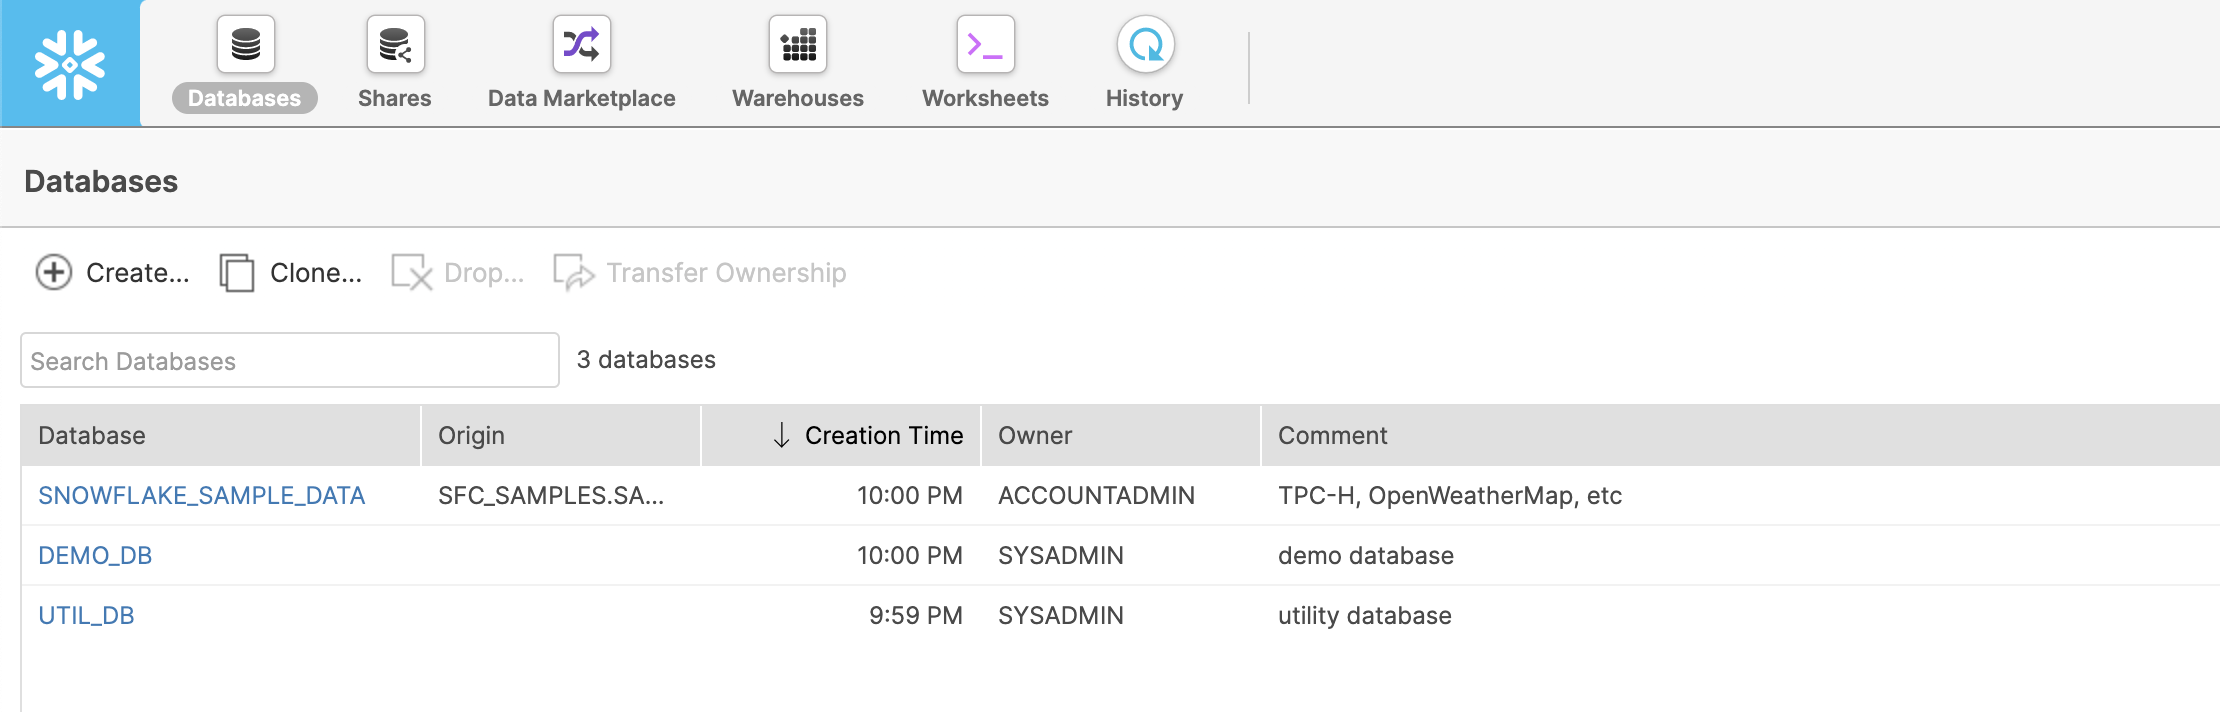
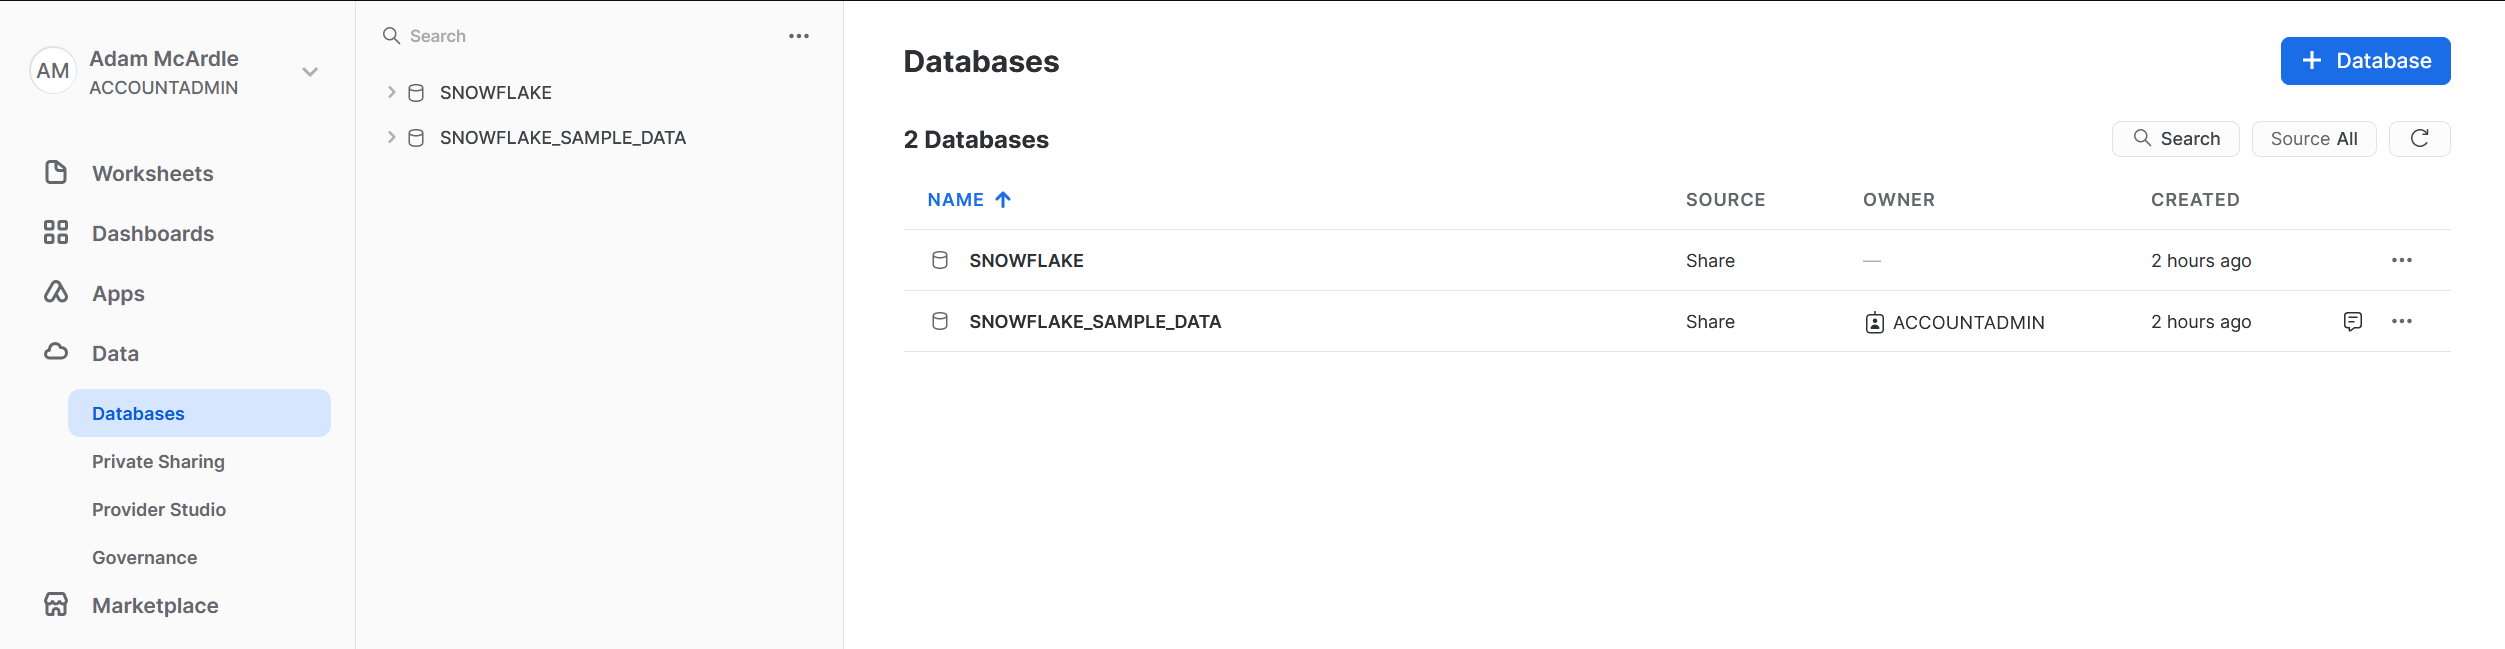
02 UI Tour changes

diff --git a/sessions/Snowflake-100/101/02-tour-of-the-ui/README.md b/sessions/Snowflake-100/101/02-tour-of-the-ui/README.md
@@ -3,54 +3,60 @@
 
 ## The main menu
 
-The top menu allows you to switch between the different areas of Snowflake.
+The menu on the left allows you to switch between the different areas of Snowflake.
 
 ![Snowflake main menu](./assets/snowflake_menu.png "Snowflake main menu")
 
 Areas:
-* Databases
-* Shares
-* Data Marketplace
-* Warehouses
 * Worksheets
-* History
-* Account
-
-## Databases
-
-Shows information about the databases you have created or have privileges to access. You can create, clone, drop, or transfer ownership of databases as well as load data (limited) in the UI.
-
-![Snowflake databases](./assets/snowflake_databases.png "Snowflake databases")
-
-
-## Shares
-
-Allows data sharing to be configured to easily and securely share Snowflake table(s) among separate Snowflake accounts or external users.
-
-## Data Marketplace
-
-Allows you to import pre-made data sets curated by external companies.
-
-## Warehouse
-
-This is where you set up and manage compute resources (virtual warehouses) to load or query data in Snowflake.
-
-![Snowflake warehouses](./assets/snowflake_warehouses.png "Snowflake warehouses")
+* Dashboards
+* Apps
+* Data
+* Marketplace
+* Activity
+* Admin
+* Help & Support
 
 ## Worksheets
 
 Provides an interface for submitting SQL queries, performing DDL and DML operations and viewing results as your queries/operations complete.
 
-Each worksheet has it's own "context" which defines which role, warehouse, database, and schema your queries will be run inside. This allows you to have multiple worksheets simultaneously with different config. This differs from the account context (top right) which determines which items appear in the top menu and what function you are allowed to run in the UI outside of the worksheet context.
+Each worksheet has it's own "context" which defines which role, warehouse, database, and schema your queries will be run inside. This allows you to have multiple worksheets simultaneously with different config. This differs from the account context (top left) which determines which items appear in the menu and what function you are allowed to run in the UI outside of the worksheet context.
 
 ![Snowflake worksheets](./assets/snowflake_worksheet.png "Snowflake worksheets")
 
 Worksheets are saved automatically each time you change the content and will be persisted in your account until you explicily remove them.
 
-## History
+## Dashboards
+Visualise your data with basic charts and graphs from mulitple queries in a dashboard.
+
+## Apps
+Install third party apps to add extra functionality to your Snowflake account. At the time of writing this is a preview feature, available only on AWS-backed Snowflake accounts.
+
+## Data
+
+Shows information about the databases you have created or have privileges to access. You can create, clone, drop, or transfer ownership of databases as well as load data (limited) in the UI.
+
+![Snowflake databases](./assets/snowflake_databases.png "Snowflake databases")
+
+## Marketplace
+
+Allows you to import pre-made data sets curated by external companies.
+
+## Activity
 
 Allows you to view the details of all queries executed in the last 14 days in the Snowflake account.
 
-## Account
+## Shares
 
-The account area allows you to manage/monitor billing and resource usage as well as create users and roles. This is only visible when you are using the `ACCOUNTADMIN` role.
+Allows data sharing to be configured to easily and securely share Snowflake table(s) among separate Snowflake accounts or external users.
+
+## Admin
+The Admin area allows you to manage/monitor billing and resource usage as well as create users and roles. 
+
+This is also where you set up and manage compute resources (virtual warehouses) to load or query data in Snowflake.
+
+![Snowflake warehouses](./assets/snowflake_warehouses.png "Snowflake warehouses")
+
+
+What you see in the Admin section will depend on which system roles you have been assigned. If you have `ACCOUNTADMIN` then you'll see everything, otherwise you'll only see things relevant to the role you have selected.
